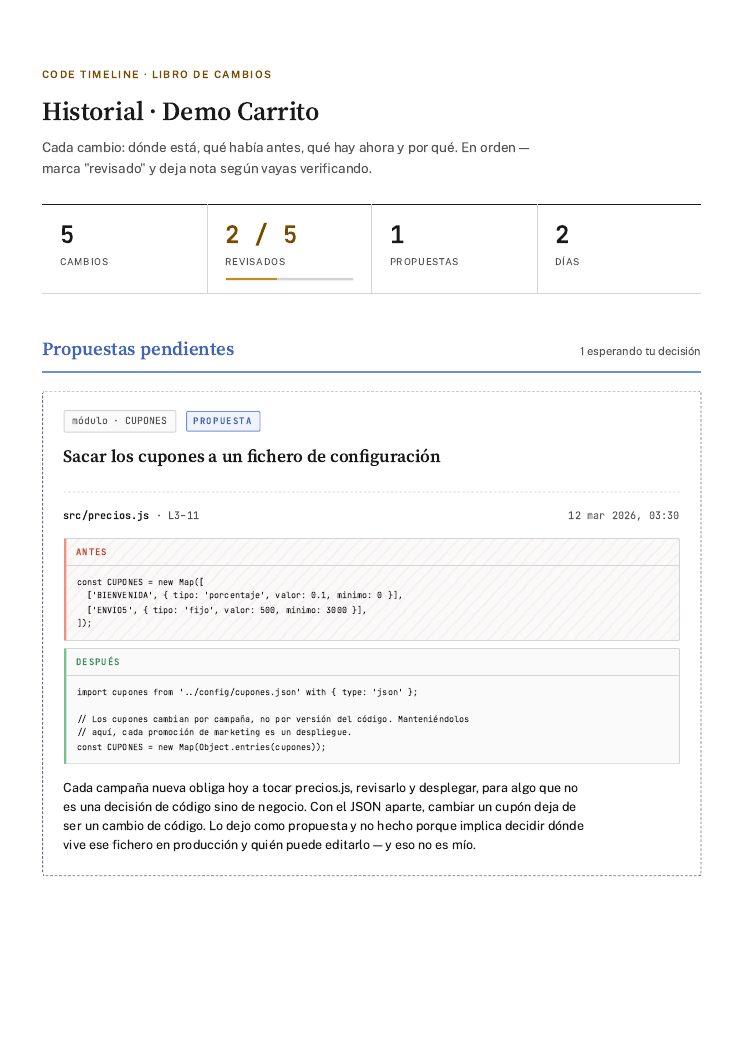
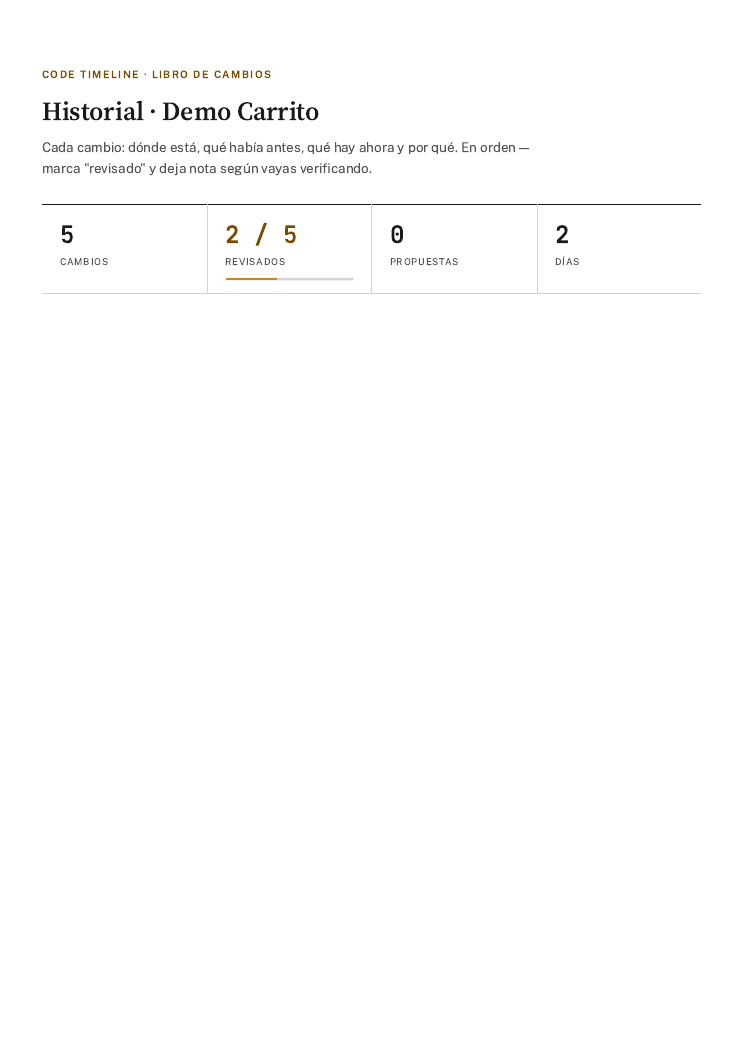
Aceptar deja la propuesta pendiente de aplicar, y arreglos de lectura
Tres pegas encontradas usándolo.

**Aceptar no es aplicar.** Aceptar metía la propuesta en el historial
como si el código ya existiera, y no existía: nadie la había escrito.
Ahora pasa a "accepted" y solo entra en el historial cuando alguien la
escribe y lo confirma con mark_applied, pasando los archivos REALES —
lo aplicado casi nunca es idéntico a lo propuesto. La entrada vuelve a
"pendiente de revisar" para verificarla como cualquier otro cambio.

El traspaso a Claude es explícito por los dos lados, porque una página
en localhost no puede avisar a nadie: la tarjeta da la orden ya escrita
con un botón de copiar, y CLAUDE.md le dice a Claude que mire
list_proposals con status "accepted" al ponerse a trabajar.

**El ancho.** Una columna fija de 900px dejaba los paneles de código a
~300px en un monitor grande: se cortaban todas las líneas mientras
sobraban 1600px a los lados. La página crece con la pantalla hasta
1500px y la prosa se queda estrecha por su cuenta (max-width en ch),
que es lo que cada una necesita. El diff pasa a una columna a 900px en
vez de a 640px, y la barra lateral de la vista completa escala con
clamp(280px, 22vw, 460px).

**El contraste del árbol.** Lo revisado se atenuaba con opacity .58
hasta ser ilegible; ahora solo cambia de color, que ya lo dice el punto
relleno. Los títulos usan dos líneas en vez de recortarse con puntos
suspensivos: a una línea casi ninguno se distinguía del de al lado.

diff --git a/README.md b/README.md
@@ -56,10 +56,27 @@ de la página que te pide una decisión. El historial de abajo es cosa hecha.
 
 ![Propuestas pendientes](docs/img/propuestas.png)
 
-Aceptarla la convierte en un cambio del historial —el mismo registro, con la
-nota que dejaste al revisarla—. Descartarla la archiva con tu motivo, no la
-borra: saber qué se rechazó y por qué es lo que evita volver a proponerlo
-dentro de tres semanas, y `list_proposals` deja que Claude lo consulte.
+Aceptarla **no** la mete en el historial: la deja en *aceptada, pendiente de
+aplicar*. El historial dice lo que está en el código, y al aceptar todavía no
+lo está — nadie la ha escrito. Entra cuando quien la escribe lo confirma con
+`mark_applied`, y entonces vuelve a "pendiente de revisar" como cualquier otro
+cambio.
+
+Descartarla la archiva con tu motivo, no la borra: saber qué se rechazó y por
+qué es lo que evita volver a proponerlo dentro de tres semanas.
+
+### Cómo se entera Claude de que aceptaste
+
+**La web no puede avisarle** — es una página en tu `localhost`, no tiene por
+dónde llamarle. Así que el traspaso es explícito por los dos lados:
+
+- La tarjeta aceptada te da la orden ya escrita y un botón para copiarla:
+  `aplica la propuesta "..."`. La pegas en Claude Code y listo.
+- Claude puede verlo por su cuenta con `list_proposals` y `status: "accepted"`.
+  El `CLAUDE.md` del repo le dice que lo mire al ponerse a trabajar, así que
+  normalmente lo saca él solo sin que se lo pidas.
+
+![Una propuesta aceptada, esperando a que alguien la escriba](docs/img/aceptadas.png)
 
 Una propuesta tiene una trampa que la vista completa avisa explícitamente: el
 archivo que se lee del disco es el **estado actual**, no el propuesto. Las
@@ -165,8 +182,9 @@ code-timeline serve [--port N] [--open]   levanta la web (viva, con notas)
 code-timeline projects                    lista los proyectos vinculados
 code-timeline link --name N --path P      vincula un proyecto
 code-timeline changes <projectId>         lista los cambios registrados
-code-timeline proposals <projectId>       las propuestas pendientes (--rejected, las descartadas)
+code-timeline proposals <projectId>       pendientes (--accepted: sin aplicar; --rejected: descartadas)
 code-timeline decide <id> <changeId> accept|reject [--note "..."]
+code-timeline applied <id> <changeId> [--commit sha]
 code-timeline export <projectId> [--format json|md] [--out ruta|-]
 code-timeline import <fichero.json> [--merge <projectId>] [--repo <ruta>]
 code-timeline render <projectId>          exporta un timeline.html estático
@@ -185,6 +203,7 @@ code-timeline show <projectId>            metadatos del proyecto (JSON)
 | `list_changes` | El historial, en orden cronológico |
 | `list_proposals` | Las pendientes, o las descartadas con su motivo |
 | `decide_proposal` | Acepta o descarta (solo si se lo pides tú) |
+| `mark_applied` | Confirma que una aceptada ya está escrita: pasa al historial |
 | `export_project` | Escribe el historial a JSON o Markdown |
 | `import_project` | Lee un JSON exportado: proyecto nuevo o fusión |
 | `render_timeline` | Exporta el `timeline.html` estático |
@@ -212,9 +231,14 @@ data/
   projects/<id>/timeline.html      export estático (se regenera; no se versiona)
 ```
 
-Cambios y propuestas comparten fichero y comparten id: aceptar una propuesta
-la convierte en cambio **sin moverla de sitio**, así que no se pierde ni su
-antes/después ni la nota que dejaste mientras la revisabas.
+Cambios y propuestas comparten fichero y comparten id. Una entrada recorre sus
+estados sin moverse de sitio, así que nunca pierde su antes/después ni la nota
+que dejaste al revisarla:
+
+```
+proposal ──aceptar──> accepted ──mark_applied──> change
+    └─────descartar─────> rejected
+```
 
 Son ficheros JSON planos, legibles y editables. **`data/` está en
 `.gitignore`, y es a propósito**: cada entrada guarda fragmentos literales del

diff --git a/CLAUDE.md b/CLAUDE.md
@@ -138,6 +138,14 @@ falta en un scroll largo. Explorado primero como canvas de diseño
   nunca para dar por buena una propuesta tuya. Antes de proponer, mira
   `list_proposals` con `status: "rejected"`: si ya se descartó, el motivo está
   ahí y volver a proponerlo es hacerle perder el tiempo.
+- **Aceptar no es aplicar.** Una propuesta aceptada queda en `accepted`: está
+  aprobada, pero nadie ha escrito el código. Solo entra en el historial cuando
+  la escribes de verdad y lo confirmas con `mark_applied`, pasándole los
+  archivos REALES (lo aplicado casi nunca es idéntico a lo propuesto).
+- **Mira `list_proposals` con `status: "accepted"` al ponerte a trabajar en un
+  proyecto vinculado.** La web es una página en su localhost y no puede
+  avisarte de nada: si el usuario aceptó algo entre sesiones, esa lista es el
+  único sitio donde consta. Es trabajo comprometido y pendiente.
 - **Las claves de `data/` no se reescriben a mano.** Si necesitas migrar el
   esquema de `changes.json`, hazlo con un script (como
   `scripts/seed-demo.mjs`), nunca editando el JSON directamente: los datos son
